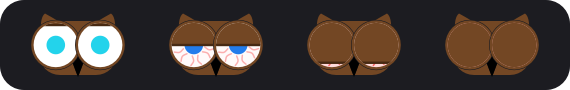
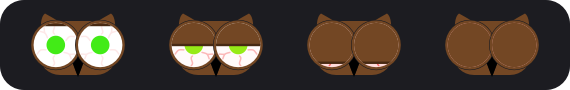
feat: usage bars and owl pupils share the green→yellow→orange→red ramp
Each menu bar is coloured by its own percentage with MeterColor.health, the
same ramp as the owl's pupils, so the weekly bar always matches them. README
describes the new pupils, the veins fading in with the week, and the refreshed
icon strip.

diff --git a/Sources/ClaudeUsage/main.swift b/Sources/ClaudeUsage/main.swift
@@ -32,9 +32,9 @@ final class App: NSObject, NSApplicationDelegate {
     /// Shape, user-chosen, from StatusItemKit. The geometric meters are always
     /// fed the session fraction — the five-hour window is the one that actually
     /// stops work — while the owl shows both windows at once.
-    /// There is no colour to choose: every colour is `MeterColor.usage` of a
-    /// fraction, cyan when a window is fresh and red when it is spent, so the
-    /// owl's pupils and the menu's bars say the same thing.
+    /// There is no colour to choose: the owl's pupils and the menu's bars are
+    /// `MeterColor.health` of a fraction, green when a window is fresh through
+    /// yellow and orange to red when it is spent; the geometric meters use `MeterColor.usage`, cyan to red.
     private let appearance = MeterAppearance(defaultStyle: .character)
     private lazy var appearanceMenu = AppearanceMenu(appearance: appearance,
                                                      styles: MeterStyle.proportional + [.character],
@@ -142,7 +142,7 @@ final class App: NSObject, NSApplicationDelegate {
         if appearance.style == .character {
             // The owl shows both windows at once. Its eyelids droop with the
             // session — open at 0, shut at 100% — and the weekly window is its
-            // health: the whites go bloodshot and the pupils run cyan to red.
+            // health: the whites go bloodshot and the pupils run green to red.
             let weekly = snapshot.limits.limits.dropFirst().first
             controller.setIcon(CharacterIcon.owl(session: fraction, weekly: CGFloat(weekly?.fraction ?? 0)))
             return
@@ -173,11 +173,11 @@ final class App: NSObject, NSApplicationDelegate {
         if snapshot.limits.limits.isEmpty && snapshot.limits.statusText.isEmpty {
             menu.addItem(disabled("No limit data"))
         }
-        // Each bar wears the colour of its own fraction, the same ramp as the
-        // owl's pupils, so the weekly bar and the pupils always agree.
+        // Each bar wears the colour of its own fraction on the pupils' ramp,
+        // green through yellow and orange to red, so the weekly bar matches the pupils.
         for limit in snapshot.limits.limits {
             let item = NSMenuItem()
-            item.view = LimitBarView(limit: limit, color: MeterColor.usage(CGFloat(limit.fraction)))
+            item.view = LimitBarView(limit: limit, color: MeterColor.health(CGFloat(limit.fraction)))
             menu.addItem(item)
         }
 

diff --git a/Sources/ClaudeUsage/LimitBarView.swift b/Sources/ClaudeUsage/LimitBarView.swift
@@ -23,7 +23,7 @@ final class LimitBarView: NSView {
     private let detail: NSTextField?
 
     /// - Parameter color: the colour of this window's fraction on the usage
-    ///   ramp, cyan when fresh and red when spent — the same ramp the owl's
+    ///   ramp, green when fresh through yellow and orange to red when spent — the same ramp the owl's
     ///   pupils follow, so the weekly bar and the pupils match.
     init(limit: UsageLimit, color: NSColor, now: Date = Date()) {
         self.fraction = CGFloat(max(0, min(1, limit.fraction)))

diff --git a/README.md b/README.md
@@ -18,19 +18,20 @@ The icon is an **owl whose eyelids droop as you use up your 5-hour session
 window** — the one that actually stops your work. Both lids come down together:
 wide open at 0%, half closed at 50%, shut at 100%.
 
-The **7-day weekly window** is the owl's health. Past a quarter used, the whites
-go bloodshot — a deepening pink with red veins, the way a cartoon looks when it
-badly needs sleep — and the pupils run from **cyan** at 0% through blue and
-magenta to **red** at 100%. Shut eyes with red pupils means both limits are
-spent.
+The **7-day weekly window** is the owl's health. Red veins fade in from the
+start — their opacity is the weekly percentage, invisible at 0% and solid at
+100% — and past a quarter used the whites turn a deepening pink, the way a
+cartoon looks when it badly needs sleep. The pupils run like a traffic light:
+**green** at 0%, **yellow** at 50%, **orange** at 75%, **red** at 100%. Shut
+eyes with red pupils means both limits are spent.
 
-The bars in the menu follow the same ramp, each by its own percentage, so the
-weekly bar is always the colour of the pupils. There is no colour to pick: the
-colours mean something.
+The bars in the menu follow the same green-to-red ramp, each by its own
+percentage, so the weekly bar is always the colour of the pupils. There is no
+colour to pick: the colours mean something.
 
 Prefer a plain meter? Pick a shape under Settings ▸ Icon: **Arc**, **Gauge**,
-**Pie** or **Wedge**. Those track the session limit only, coloured by it on the
-same ramp.
+**Pie** or **Wedge**. Those track the session limit only, coloured by it from
+**cyan** at 0% through blue and magenta to **red** at 100%.
 
 ## Install
 
